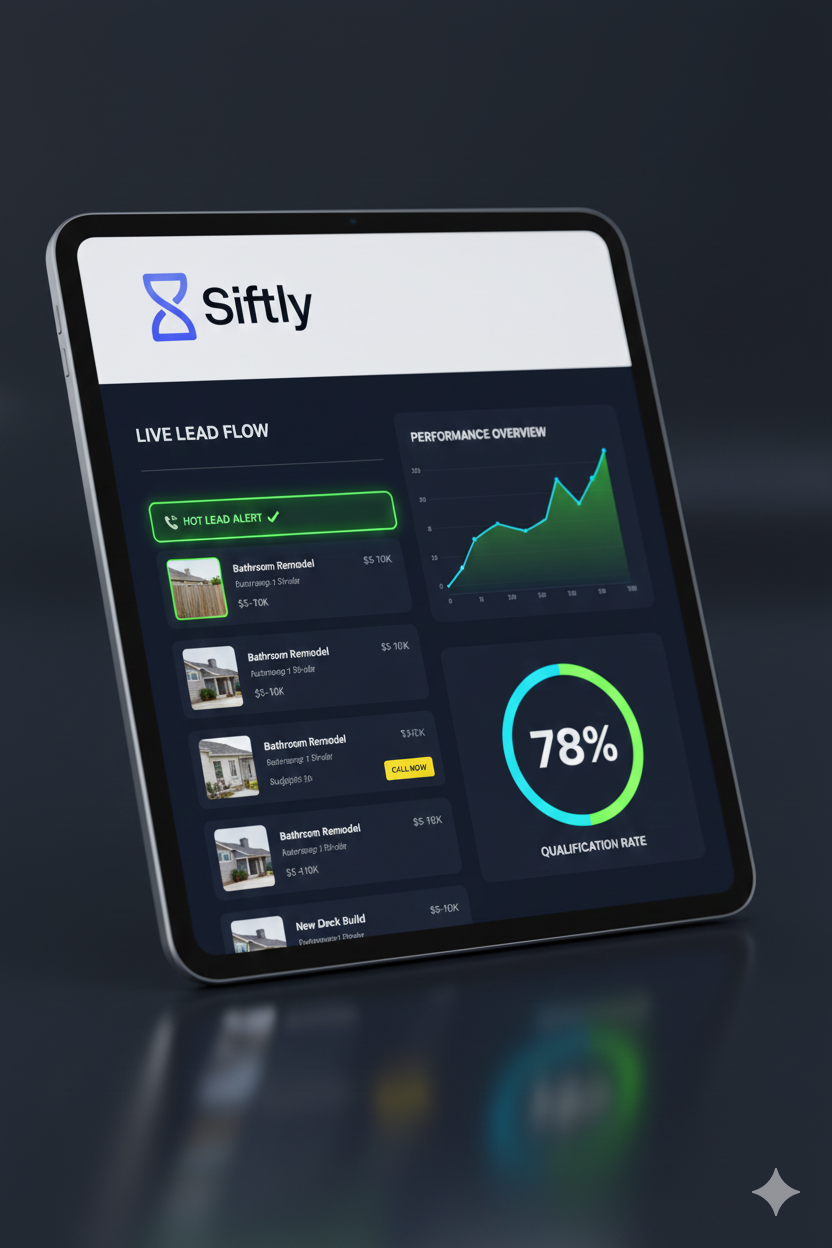
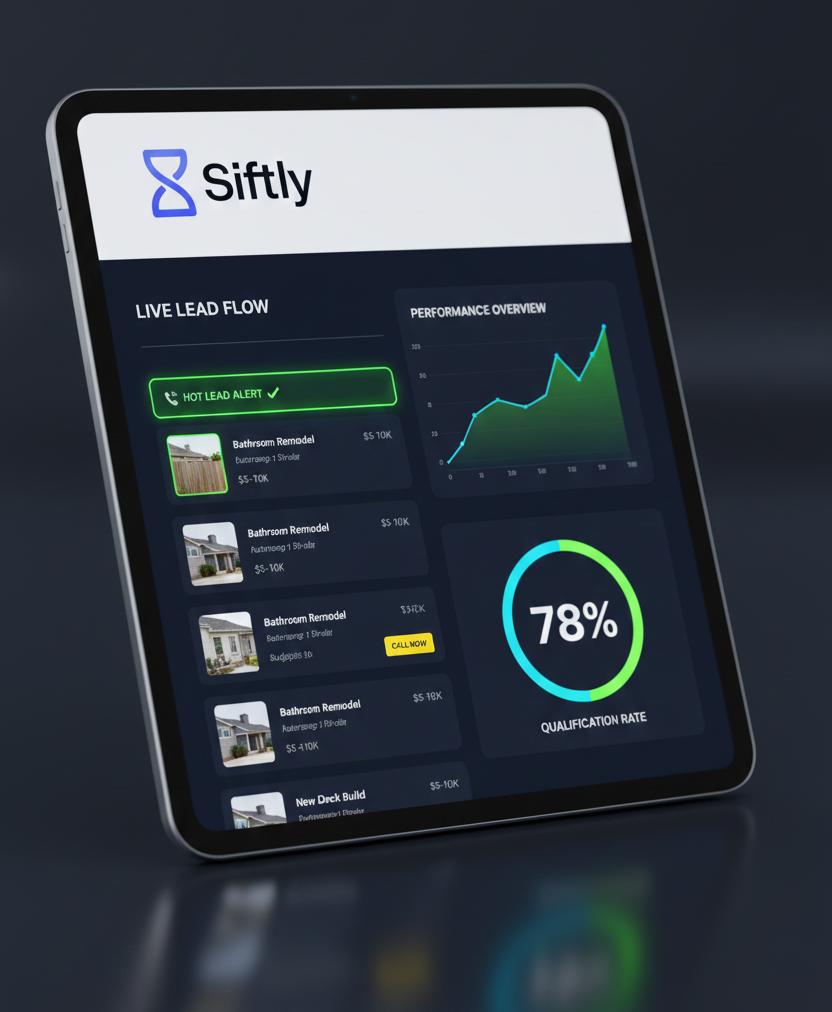
Fixed vertical stretching of hero images and optimized header

diff --git a/docs/styles.css b/docs/styles.css
@@ -1,9 +1,4 @@
-/* SIFTLY MASTER STYLESHEET 
-   Brand: Siftly | Lead Qualification AI
-   Final Layout: Centered Logo + Dual Hero Images + 3-Column Pricing
-*/
-
-/* 1. RESET & BASE STYLES */
+/* 1. RESET & BASE */
 * {
     margin: 0;
     padding: 0;
@@ -15,145 +10,98 @@ body {
     line-height: 1.6;
     color: #333;
     background-color: #f9f9f9;
-    text-align: center; /* Ensures global alignment stays centered */
 }
 
-.container {
-    max-width: 1100px;
-    margin: 0 auto;
-    padding: 0 20px;
-    width: 100%;
-}
-
-/* 2. NAVBAR - STICKY, CENTERED & TRANSPARENT */
+/* 2. HEADER - STICKY, CENTERED & THIN */
 .navbar {
-    background-color: rgba(255, 255, 255, 0.9); /* Semi-transparent white */
-    backdrop-filter: blur(10px); /* Glass effect */
+    background-color: rgba(255, 255, 255, 0.9);
+    backdrop-filter: blur(10px);
     -webkit-backdrop-filter: blur(10px);
     position: sticky;
     top: 0;
     z-index: 1000;
-    padding: 15px 0;
+    padding: 10px 0; /* Reduced negative space */
     border-bottom: 1px solid rgba(0, 0, 0, 0.05);
 }
 
 .navbar .container {
     display: flex;
-    flex-direction: column; /* Stacks logo and nav links if added */
+    flex-direction: column;
     align-items: center;
     justify-content: center;
 }
 
 .site-logo {
-    height: 100px; /* ENLARGED LOGO */
+    height: 80px; /* Large, clear logo */
     width: auto;
     display: block;
 }
 
 .nav-links {
-    margin-top: 10px;
+    margin-top: 5px;
 }
 
 .nav-item {
-    color: #333;
+    color: #4364F7;
     text-decoration: none;
     font-weight: 700;
-    font-size: 0.9rem;
+    font-size: 0.85rem;
+    text-transform: uppercase;
+    letter-spacing: 1px;
 }
 
-/* 3. HERO SECTION & DUAL IMAGES */
+/* 3. HERO & DUAL IMAGES (STRETCH FIX) */
 .hero {
     background: linear-gradient(135deg, #4364F7 0%, #6FB1FC 100%);
     color: white;
-    padding: 80px 0;
-}
-
-.hero h1 {
-    font-size: 3rem;
-    margin-bottom: 20px;
-    font-weight: 700;
-}
-
-.hero h2 {
-    font-size: 1.5rem;
-    margin-bottom: 30px;
-    opacity: 0.9;
+    padding: 60px 0;
+    text-align: center;
 }
 
 .image-wrapper {
     display: flex;
-    justify-content: center; /* Side-by-side alignment */
+    justify-content: center;
+    align-items: flex-start; /* Aligns them at the top so they don't stretch */
     gap: 30px;
     margin-top: 40px;
-    flex-wrap: wrap; /* Stacks on mobile */
+    flex-wrap: wrap;
 }
 
 .hero-img {
-    max-width: 380px; /* Sized to fit two side-by-side on desktop */
+    max-width: 400px;
     width: 100%;
+    height: auto; /* CRITICAL: Prevents vertical stretching */
     border-radius: 20px;
     box-shadow: 0 20px 40px rgba(0,0,0,0.3);
+    object-fit: contain; /* Ensures the whole image fits without distortion */
 }
 
-/* 4. BUTTONS */
-.button {
-    display: inline-block;
-    padding: 15px 35px;
-    border-radius: 50px;
-    text-decoration: none;
-    font-weight: 700;
-    transition: transform 0.2s ease, box-shadow 0.2s ease;
-    cursor: pointer;
+/* 4. CONTENT & PRICING */
+.container {
+    max-width: 1100px;
+    margin: 0 auto;
+    padding: 0 20px;
 }
 
-.primary-cta {
-    background-color: #ffcc00;
-    color: #333;
-}
-
-.primary-cta:hover {
-    transform: translateY(-3px);
-    box-shadow: 0 10px 20px rgba(0,0,0,0.15);
-}
-
-.secondary-cta {
-    background-color: #0052D4;
-    color: white;
-}
-
-/* 5. FEATURES & PRICING GRID */
-.features, .pricing {
+.pricing, .features {
     padding: 80px 0;
+    text-align: center;
 }
 
-.section-title {
-    margin-bottom: 20px;
-    font-size: 2.2rem;
-    font-weight: 700;
-}
-
-.subtitle {
-    margin-bottom: 40px;
-    color: #666;
-    font-size: 1.1rem;
-}
-
-.feature-grid, .pricing-grid {
+.pricing-grid {
     display: flex;
     justify-content: center;
-    flex-wrap: wrap;
     gap: 30px;
+    flex-wrap: wrap;
     margin-top: 40px;
 }
 
-.feature-card, .pricing-card {
+.pricing-card {
     background: white;
     padding: 40px;
     border-radius: 15px;
-    width: 320px; /* Uniform width for 3-column look */
+    width: 320px;
     border: 1px solid #ddd;
-    text-align: center;
-    transition: transform 0.3s ease;
 }
 
 .pricing-card.recommended {
@@ -161,46 +109,18 @@ body {
     transform: scale(1.05);
 }
 
-.price {
-    font-size: 2.5rem;
-    font-weight: 700;
-    margin: 15px 0;
-}
-
-.price-desc {
-    font-size: 0.9rem;
-    color: #666;
-    margin-bottom: 20px;
-}
-
-/* 6. FOOTER */
+/* 5. FOOTER */
 footer {
     background-color: #222;
     color: #ccc;
     padding: 60px 0;
+    text-align: center;
 }
 
-footer a {
-    color: #fff;
-    text-decoration: none;
-    margin: 0 10px;
-    font-size: 0.9rem;
-}
+footer a { color: #fff; text-decoration: none; margin: 0 10px; }
 
-footer a:hover {
-    text-decoration: underline;
-}
-
-.guarantee {
-    margin-top: 15px;
-    font-size: 0.9rem;
-    opacity: 0.8;
-}
-
-/* 7. RESPONSIVE MOBILE TWEAKS */
+/* MOBILE */
 @media (max-width: 768px) {
-    .hero h1 { font-size: 2rem; }
-    .site-logo { height: 70px; }
+    .site-logo { height: 60px; }
     .hero-img { max-width: 320px; }
-    .pricing-card.recommended { transform: scale(1); }
 }
